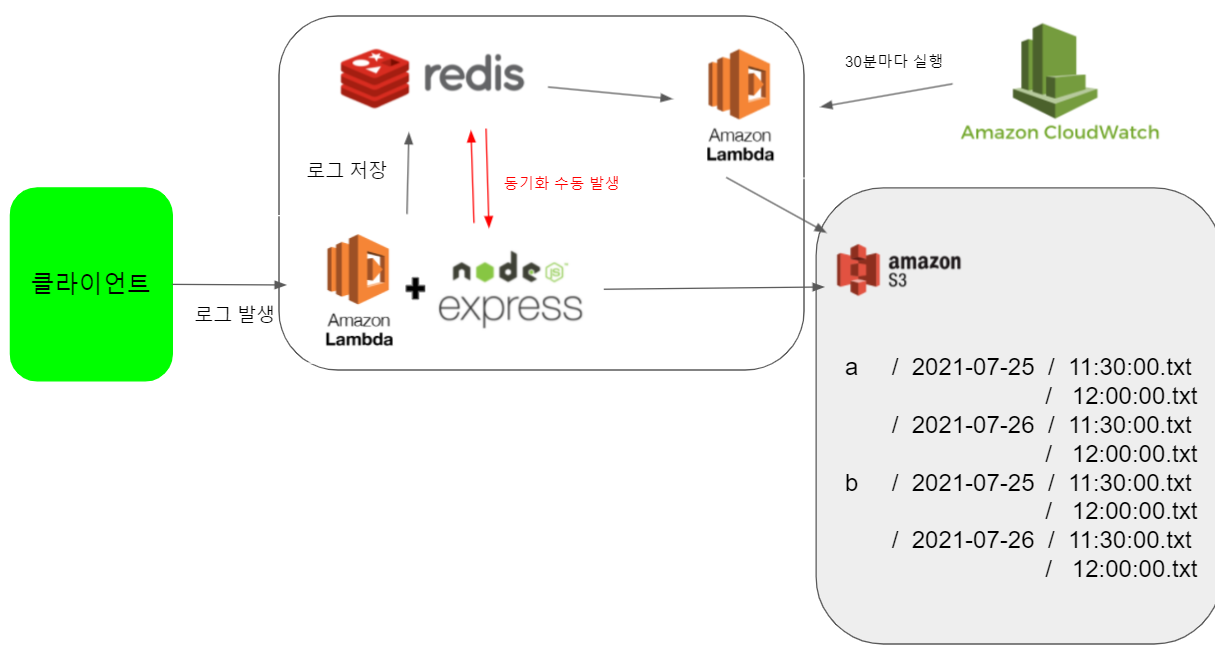
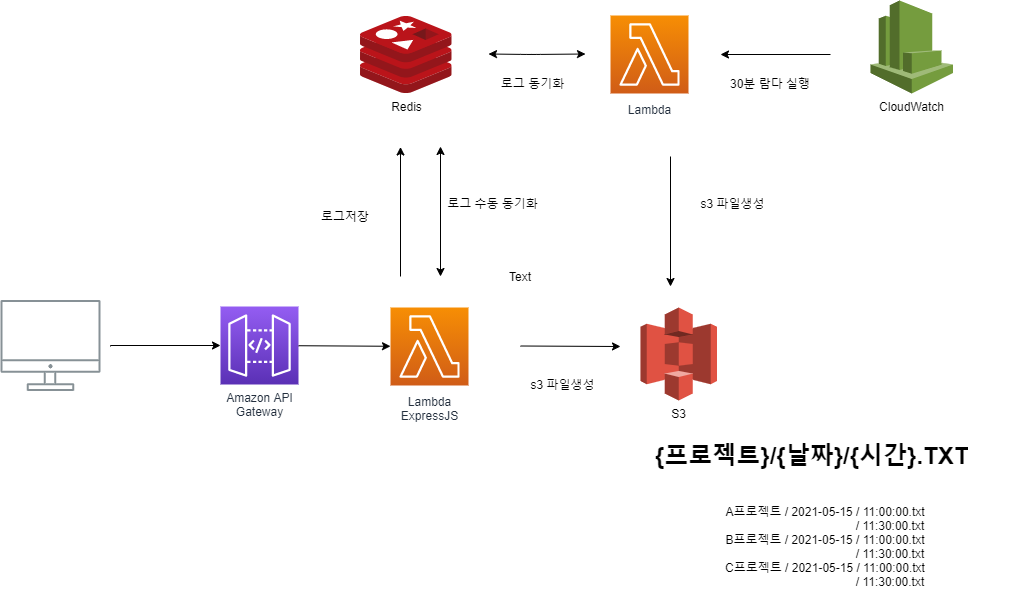
이미지 draw.io 로 변경 파일명 변경

diff --git a/express/routes/log.js b/express/routes/log.js
@@ -35,12 +35,11 @@ const log_sync = async () => {
 
 		const log_text = await get_logs(key, result.length);
 
-		const fileName1 = dayjs().tz('Asia/Seoul').format('YYYY-MM-DD');
-		const fileName2 = dayjs().tz('Asia/Seoul').format('HH:mm:ss');
+		const fileName = dayjs().tz('Asia/Seoul').format('YYYY-MM-DD/HH:mm:ss');
 		
 		const param = {
 			Bucket: process.env.S3_PATH || "log-redis-logbucket-phsle8mf872u",
-			Key: `${key}/${fileName1}/${fileName2}.txt`,
+			Key: `${key}/${fileName}.txt`,
 			'ACL': 'public-read',
 			'Body': log_text.join('\n')
 		}

diff --git a/sync/app.js b/sync/app.js
@@ -31,12 +31,11 @@ const log_sync = async () => {
 
 		const log_text = await get_logs(key, result.length);
 
-		const fileName1 = dayjs().tz('Asia/Seoul').format('YYYY-MM-DD');
-		const fileName2 = dayjs().tz('Asia/Seoul').format('HH:mm:ss');
+		const fileName = dayjs().tz('Asia/Seoul').format('YYYY-MM-DD/HH:mm:ss');
 		
 		const param = {
 			Bucket: process.env.S3_PATH || "log-redis-logbucket-phsle8mf872u",
-			Key: `${key}/${fileName1}/${fileName2}.txt`,
+			Key: `${key}/${fileName}.txt`,
 			'ACL': 'public-read',
 			'Body': log_text.join('\n')
 		}
